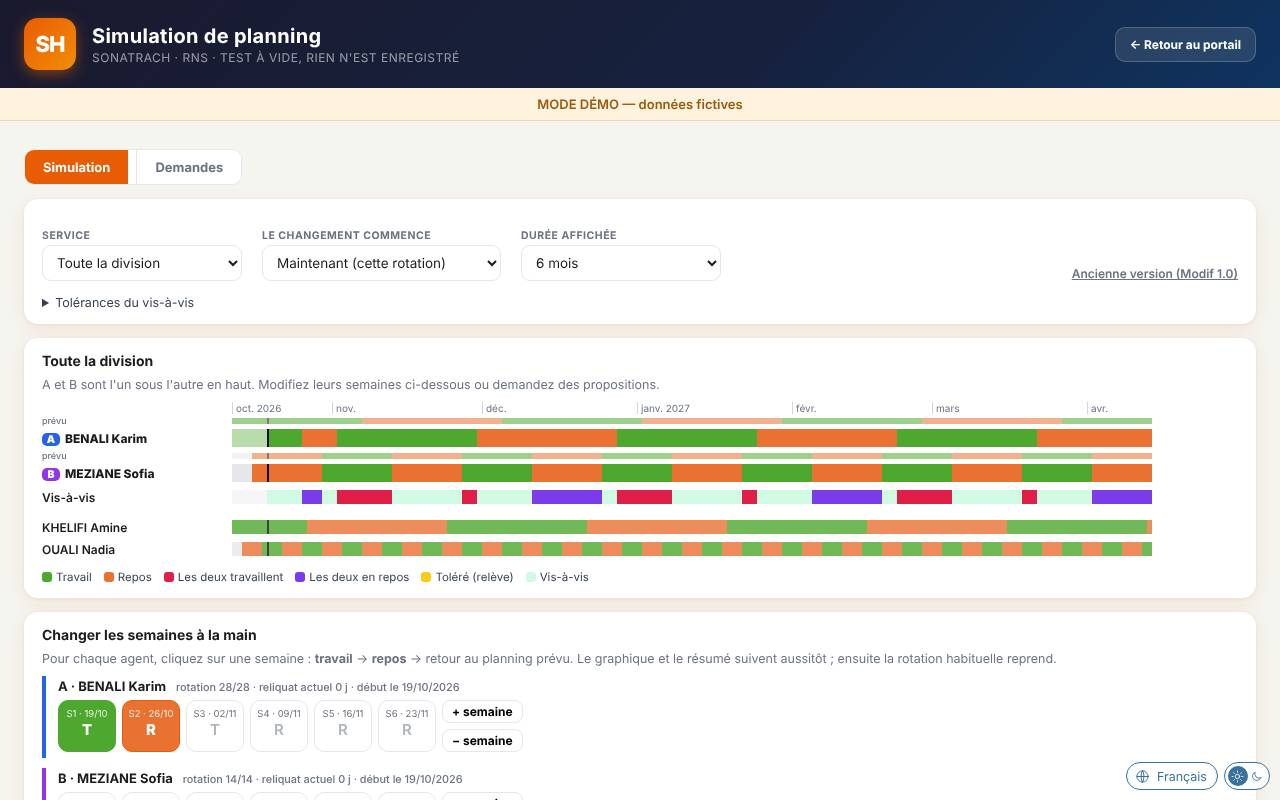
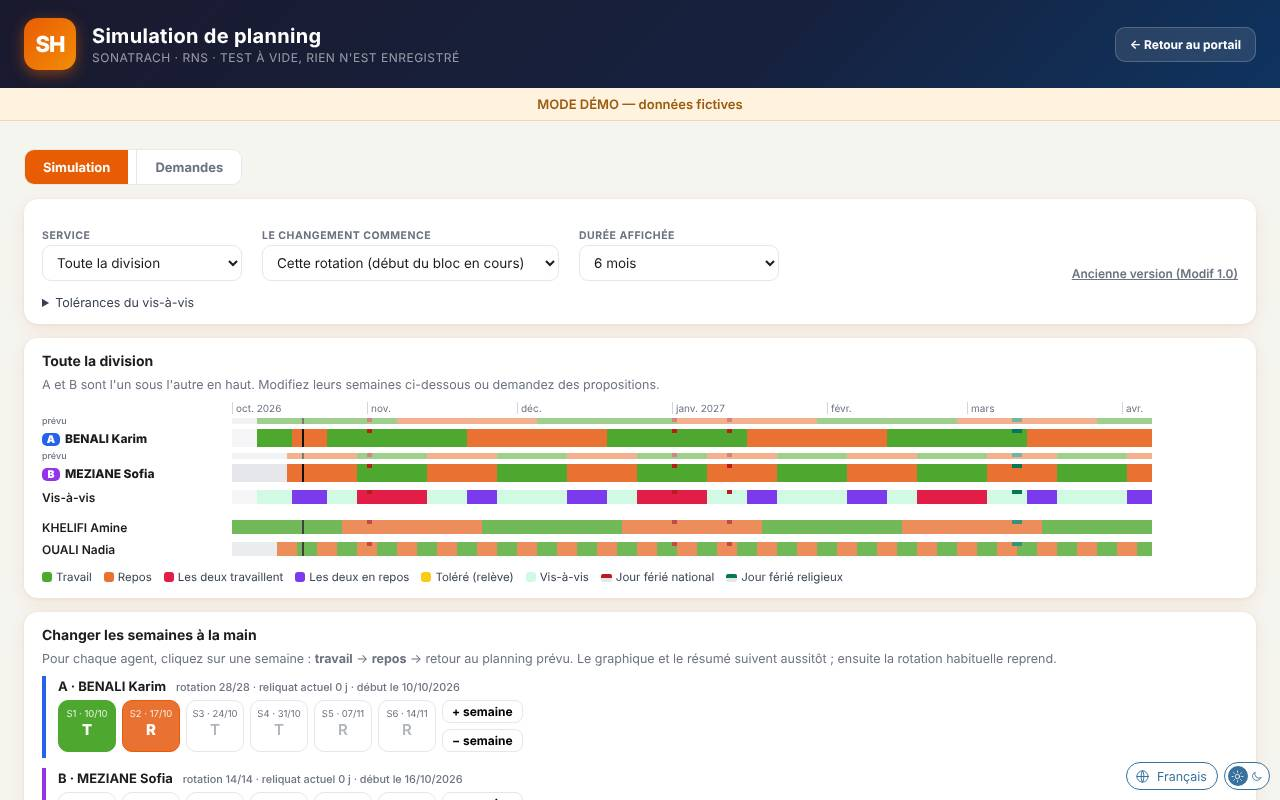
Simulation : conflits comptés sur une rotation avec phrase claire, propositions depuis la relève de chacun, survol des jours et jours fériés (simulation + planning) ; version 5.21.0
Claude-Session: https://claude.ai/code/session_01QFh25d4oXMnsPMaewNRDEt

diff --git a/simulation.html b/simulation.html
@@ -48,6 +48,8 @@
   .frise .mois { height: 16px; font-size: 10px; color: var(--text-muted); }
   .frise .mois span { display: block; overflow: visible; white-space: nowrap; border-left: 1px solid #D1D5DB; padding-left: 3px; }
   .frise .ligne.autres i { opacity: .8; }
+  .frise i { box-sizing: border-box; } .frise i.fn { border-top: 4px solid #B91C1C; } .frise i.fr { border-top: 4px solid #047857; }
+  .legende-s .fe { display: inline-block; width: 11px; height: 8px; border-radius: 2px; margin-right: 4px; background: #E5E7EB; vertical-align: -1px; } .legende-s .fe.n { border-top: 4px solid #B91C1C; } .legende-s .fe.r { border-top: 4px solid #047857; }
   .legende-s { display: flex; gap: 12px; flex-wrap: wrap; font-size: 11.5px; color: var(--ink-2); margin-top: 6px; }
   .legende-s i { display: inline-block; width: 10px; height: 10px; border-radius: 3px; margin-right: 4px; vertical-align: -1px; }
 
@@ -98,7 +100,7 @@
     <div class="bloc no-print">
       <div class="barre">
         <div><label for="service">Service</label><select id="service"></select></div>
-        <div><label for="mode">Le changement commence</label><select id="mode"><option value="maintenant">Maintenant (cette rotation)</option><option value="releve">À la prochaine rotation (relève)</option><option value="date">À partir d'une date</option></select></div>
+        <div><label for="mode">Le changement commence</label><select id="mode"><option value="cette">Cette rotation (début du bloc en cours)</option><option value="prochaine">La prochaine rotation (prochaine relève)</option><option value="date">À partir d'une date (relève suivante)</option></select></div>
         <div id="z-date" hidden><label for="dateDebut">Date de début</label><input type="date" id="dateDebut"></div>
         <div><label for="vue">Durée affichée</label><select id="vue"><option value="92">3 mois</option><option value="184" selected>6 mois</option><option value="350">1 an</option></select></div>
         <a class="lien" href="simulation-v1.html">Ancienne version (Modif 1.0)</a>
@@ -126,7 +128,7 @@
 
     <div class="bloc no-print" id="b-prop" hidden>
       <h2>💡 Propositions automatiques</h2>
-      <p class="aide2">Des décalages de 1 à 8 semaines pour les deux agents, classés du <b>plus petit reliquat</b> (positif ou négatif) au plus grand, parmi ceux qui mettent les deux en vis-à-vis. Elles respectent le choix « Le changement commence » ci-dessus.</p>
+      <p class="aide2">Des décalages de 1 à 8 semaines entières, qui commencent <b>à la relève de chacun</b> (le jour de relève de chaque agent est respecté). Classées du moins de jours de conflit, puis du <b>plus petit reliquat</b> (positif ou négatif) au plus grand. Elles respectent le choix « Le changement commence » ci-dessus.</p>
       <div class="actions" style="margin-top:0"><button class="btn-s" id="proposer" type="button">Proposer des combinaisons</button><span class="aide2" id="prop-aide" style="margin:0"></span></div>
       <div class="props" id="props"></div>
     </div>
@@ -150,6 +152,7 @@
 <script src="js/rotation.js"></script>
 <script>Rotation.exiger();</script>
 <script src="js/simulation.js"></script>
+<script src="js/feries.js"></script>
 <script>
 (function () {
   var $ = function (id) { return document.getElementById(id); };
@@ -164,6 +167,7 @@
 
   var lignes = [], agents = [], F = '', auj = '';           // planning de toute la division (grille depuis F) et liste des agents (uid)
   var S = { A: null, B: null };                              // agents choisis : { ligne, uid, data, cells: [{v}], nb }
+  var FER = {};                                              // jours fériés par date
   var cache = {};                                            // uid → données
   function sgn(n) { return (n > 0 ? '+' : n < 0 ? '−' : '') + Math.abs(n) + ' j'; }
   function sem(n) { return n % 7 === 0 ? (n / 7) + ' sem.' : n + ' j'; }
@@ -171,8 +175,8 @@
 
   // ---------- Chargement ----------
   function charger() {
-    return Promise.all([Api.call('simu_agents'), Api.call('planning', { jours: 366 })]).then(function (rs) {
-      agents = rs[0].agents; var p = rs[1]; auj = p.aujourdhui; F = p.debut;
+    return Promise.all([Api.call('simu_agents'), Api.call('planning', { debut: Simulation.addDays(Rotation.aujourdhui(), -40), jours: 370 })]).then(function (rs) {
+      agents = rs[0].agents; var p = rs[1]; auj = p.aujourdhui; F = p.debut; FER = Holidays.carte(F, Simulation.addDays(F, 400));
       lignes = p.lignes.filter(function (l) { return l.configuree && l.grille; });
       var sv = {}, s = $('service'); s.textContent = ''; s.appendChild(new Option('Toute la division', ''));
       lignes.forEach(function (l) { if (l.service) sv[l.service] = 1; });
@@ -186,7 +190,7 @@
   }
   function donnees(uid) {
     if (cache[uid]) return Promise.resolve(cache[uid]);
-    return Api.call('simu_donnees', { uid: uid, debut: F, jours: 366 }).then(function (d) { cache[uid] = d; return d; });
+    return Api.call('simu_donnees', { uid: uid, debut: F, jours: 370 }).then(function (d) { cache[uid] = d; return d; });
   }
 
   // ---------- Sélection ----------
@@ -202,12 +206,17 @@
   function initCells(a) { a.cells = []; for (var i = 0; i < MAX_SEM; i += 1) a.cells.push({ v: '' }); }
 
   // ---------- Début et modification d'un agent ----------
+  /** Début de la modification d'un agent, toujours sur SA relève (son jour de relève ne change pas : son vol en dépend). */
   function debutDe(a) {
-    var d = a.data, i0 = Math.max(Simulation.diff(d.debut, d.rotation.depuis), Simulation.diff(d.debut, auj));
-    var mode = $('mode').value;
-    if (mode === 'date' && Simulation.estDate($('dateDebut').value)) return $('dateDebut').value;
-    if (mode === 'releve') return Simulation.addDays(d.debut, Simulation.prochaineReleve(d.grille, i0));
-    return Simulation.addDays(d.debut, i0);
+    var d = a.data, g = d.grille, idx = Simulation.diff(d.debut, auj), mode = $('mode').value, i;
+    if (mode === 'cette') {                                  // début du bloc (travail ou repos) en cours
+      i = idx; while (i > 0 && g.charAt(i - 1) === g.charAt(i)) i -= 1;
+      var dd = Simulation.addDays(d.debut, i);
+      if (i > 0 && dd >= d.rotation.depuis && dd >= Simulation.addDays(auj, -30)) return dd;
+      i = Simulation.prochaineReleve(g, idx + 1);            // bloc commencé trop tôt : on prend la relève suivante
+    } else if (mode === 'date' && Simulation.estDate($('dateDebut').value)) i = Simulation.prochaineReleve(g, Math.max(0, Simulation.diff(d.debut, $('dateDebut').value)));
+    else i = Simulation.prochaineReleve(g, idx + 1);
+    return Simulation.addDays(d.debut, i);
   }
   /** Modification issue des semaines cochées : null si rien n'est changé. Les semaines « prévu » reprennent les lettres du planning officiel. */
   function modifDe(a) {
@@ -244,11 +253,16 @@
   }
 
   // ---------- Frise ----------
-  function jours(g, i0, n, pre, extra) {
+  function classeFer(i) { var h = FER[Simulation.addDays(F, i)]; return h ? (h.type === 'religieuse' ? ' fr' : ' fn') : ''; }
+  var LIBTR = { T: 'Travail', R: 'Repos' };
+  /** Une rangée de jours ; `texte(i)` donne la ligne d'infobulle propre à la rangée (état du jour, vis-à-vis…). */
+  function jours(g, i0, n, pre, extra, texte) {
     var j = el('div', 'jours');
-    for (var i = i0; i < i0 + n; i += 1) { var c = g.charAt(i), b = document.createElement('i'); b.className = (c === 'T' || c === 'R' ? c : 'x') + (pre != null && i < pre ? ' pre' : '') + (extra && extra(i) ? ' ' + extra(i) : ''); j.appendChild(b); }
+    for (var i = i0; i < i0 + n; i += 1) { var c = g.charAt(i), b = document.createElement('i'); b.className = (c === 'T' || c === 'R' ? c : 'x') + (pre != null && i < pre ? ' pre' : '') + (extra && extra(i) ? ' ' + extra(i) : '') + classeFer(i); j.appendChild(b); }
+    Survol.attacher(j, function (x) { var w = j.firstChild ? j.firstChild.getBoundingClientRect().width : 0, i = w ? i0 + Math.floor(x / w) : -1; if (i < i0 || i >= i0 + n) return ''; return infobulle(i, texte ? texte(i) : (LIBTR[g.charAt(i)] || '')); });
     return j;
   }
+  function infobulle(i, etat) { var d = Simulation.addDays(F, i), h = FER[d]; return jourFr(d) + (etat ? ' — ' + etat : '') + (h ? '\n' + (h.type === 'religieuse' ? '🕌 ' : '🇩🇿 ') + h.nom : ''); }
   function rangee(cls, etiqHtml, titre) { var l = el('div', 'ligne ' + cls), e = el('div', 'etiq'); if (etiqHtml) { e.appendChild(etiqHtml); } e.title = titre || ''; l.appendChild(e); return l; }
   function dessinerFrise() {
     var z = $('frise'); z.textContent = ''; if (!F) return;
@@ -272,7 +286,9 @@
     if (A && B) {
       var deb = Math.min.apply(null, [eA, eB].map(function (e, k) { var a = k ? B : A; return e.m ? Simulation.diff(F, e.m.debut) : Simulation.diff(F, auj); }));
       var c = Simulation.conflits(eA.mod, eB.mod, F, opts(), deb), l2 = rangee('', el('span', null, 'Vis-à-vis'), ''), j2 = el('div', 'jours');
-      for (var k = i0; k < i0 + n; k += 1) { var mk = c.marques.charAt(k), b2 = document.createElement('i'); b2.className = k < deb ? 'x pre' : (mk === 'C' || mk === 'V' || mk === 't' ? mk : 'o'); j2.appendChild(b2); }
+      for (var k = i0; k < i0 + n; k += 1) { var mk = c.marques.charAt(k), b2 = document.createElement('i'); b2.className = (k < deb ? 'x pre' : (mk === 'C' || mk === 'V' || mk === 't' ? mk : 'o')) + classeFer(k); j2.appendChild(b2); }
+      Survol.attacher(j2, function (x) { var w = j2.firstChild ? j2.firstChild.getBoundingClientRect().width : 0, q = w ? i0 + Math.floor(x / w) : -1; if (q < i0 || q >= i0 + n) return ''; var m2 = c.marques.charAt(q);
+        return infobulle(q, q < deb ? '' : m2 === 'C' ? 'les deux travaillent' : m2 === 'V' ? 'les deux en repos' : m2 === 't' ? 'toléré (relève)' : 'vis-à-vis OK'); });
       l2.appendChild(j2); z.appendChild(l2);
       leg = leg.concat([['#E11D48', 'Les deux travaillent'], ['#7C3AED', 'Les deux en repos'], ['#FACC15', 'Toléré (relève)'], ['#D1FAE5', 'Vis-à-vis']]);
     }
@@ -285,6 +301,7 @@
     });
     $('t-grp').textContent = svc ? 'Service : ' + svc : 'Toute la division';
     var lg = $('legende'); lg.textContent = ''; leg.forEach(function (x) { var s = el('span'), i2 = document.createElement('i'); i2.style.background = x[0]; s.appendChild(i2); s.appendChild(document.createTextNode(x[1])); lg.appendChild(s); });
+    [['n', 'Jour férié national'], ['r', 'Jour férié religieux']].forEach(function (x) { var s = el('span'); s.appendChild(el('span', 'fe ' + x[0])); s.appendChild(document.createTextNode(x[1])); lg.appendChild(s); });
   }
 
   // ---------- Éditeurs de semaines ----------
@@ -310,6 +327,22 @@
     });
   }
 
+  // ---------- Conflits : comptés sur UNE seule rotation à partir du début de la modification ----------
+  function cycle(a) { return Number(a.data.rotation.jours_travail) + Number(a.data.rotation.jours_repos); }
+  /** { jours, deb, len } : jours de conflit (hors tolérance) pendant une rotation (la plus longue des deux), de max(début de la modification, aujourd'hui) à +len jours. */
+  function conflitsRotation(gA, gB, mA, mB, A, B) {
+    var iAuj = Simulation.diff(F, auj), dA = mA ? Simulation.diff(F, mA.debut) : iAuj, dB = mB ? Simulation.diff(F, mB.debut) : iAuj;
+    var deb = Math.max(Math.min(dA, dB), iAuj), len = Math.max(cycle(A), cycle(B)), fin = deb + len - 1, jours = 0;
+    Simulation.conflits(gA, gB, F, opts(), deb).plages.forEach(function (p) {
+      if (p.tolere) return; var a = Math.max(Simulation.diff(F, p.du), deb), b = Math.min(Simulation.diff(F, p.au), fin); if (b >= a) jours += b - a + 1;
+    });
+    return { jours: jours, deb: deb, len: len };
+  }
+  function phraseConflit(c, nomA, nomB, sujet) {
+    return c.jours ? sujet + ' résulte de ' + c.jours + ' jour' + (c.jours > 1 ? 's' : '') + ' de conflit pour ' + nomA + ' et ' + nomB + ' (sur une rotation de ' + c.len + ' jours à partir du ' + fr(Simulation.addDays(F, c.deb)) + ').'
+      : sujet + ' ne laisse aucun jour de conflit pour ' + nomA + ' et ' + nomB + ' (sur une rotation de ' + c.len + ' jours à partir du ' + fr(Simulation.addDays(F, c.deb)) + ').';
+  }
+
   // ---------- Résumé, bilan ----------
   function majResultat() {
     dessinerFrise();
@@ -328,13 +361,9 @@
       bi.appendChild(d); var ex = el('div', null, '+ : jours travaillés en plus (à récupérer) · − : jours de repos en plus'); ex.style.cssText = 'font-size:11.5px;color:var(--text-muted)'; bi.appendChild(ex);
     }
     if (A && B && !eA.err && !eB.err) {
-      var deb = Math.min(eA.m ? Simulation.diff(F, eA.m.debut) : Simulation.diff(F, auj), eB.m ? Simulation.diff(F, eB.m.debut) : Simulation.diff(F, auj));
-      var c = Simulation.conflits(eA.mod, eB.mod, F, opts(), deb), plages = c.plages.filter(function (p) { return !p.tolere && p.au >= Simulation.addDays(F, deb); }), v = el('div');
-      if (!plages.length) { v.textContent = '✔ Vis-à-vis respecté entre ' + A.ligne.nom + ' et ' + B.ligne.nom + ' sur toute la période affichée.'; v.style.cssText = 'font-weight:700;color:#166534;margin-top:6px'; bi.appendChild(v); }
-      else {
-        v.textContent = '✖ ' + c.jours + ' jour(s) en conflit :'; v.style.cssText = 'font-weight:700;color:#B42318;margin-top:6px'; bi.appendChild(v);
-        var ul = el('ul'); plages.slice(0, 6).forEach(function (p) { ul.appendChild(el('li', null, (p.type === 'trou' ? 'les deux en repos' : 'les deux travaillent') + ' du ' + fr(p.du) + ' au ' + fr(p.au) + ' (' + p.jours + ' j)')); }); bi.appendChild(ul);
-      }
+      var c = conflitsRotation(eA.mod, eB.mod, eA.m, eB.m, A, B), v = el('div');
+      v.textContent = (c.jours ? '✖ ' : '✔ ') + phraseConflit(c, A.ligne.nom, B.ligne.nom, 'Cette simulation');
+      v.style.cssText = 'font-weight:700;margin-top:6px;color:' + (c.jours ? '#B42318' : '#166534'); bi.appendChild(v);
     }
   }
   function majTout() {
@@ -351,26 +380,24 @@
     for (var w = 0; w < n && w < MAX_SEM; w += 1) a.cells[w].v = l.charAt(w * 7);
   }
   function proposer() {
-    var A = S.A, B = S.B; if (!A || !B) return; var o = opts(), mode = $('mode').value;
-    var debut = mode === 'date' && Simulation.estDate($('dateDebut').value) ? $('dateDebut').value : auj;
+    var A = S.A, B = S.B; if (!A || !B) return; var o = opts();
+    var dA = debutDe(A), dB = debutDe(B), debut = dA < dB ? dA : dB;
     $('prop-aide').textContent = 'Calcul…'; $('props').textContent = '';
     setTimeout(function () {
-      var res = Simulation.proposerPaire({ offA: A.data.grille, offB: B.data.grille, debutF: F, rotA: A.data.rotation, rotB: B.data.rotation, debut: debut, tolChev: o.tolChev, tolTrou: o.tolTrou, pas: 7, alignerReleve: mode === 'releve',
-        maxTransition: 56, maxTotal: 84, preference: 'indifferent', soldeA: A.data.solde || 0, soldeB: B.data.solde || 0, max: 60 });
+      var res = Simulation.proposerPaire({ offA: A.data.grille, offB: B.data.grille, debutF: F, rotA: A.data.rotation, rotB: B.data.rotation, debut: debut, debutA: dA, debutB: dB, tolChev: o.tolChev, tolTrou: o.tolTrou, pas: 7, alignerReleve: false,
+        maxTransition: 56, maxTotal: 84, preference: 'indifferent', soldeA: A.data.solde || 0, soldeB: B.data.solde || 0, max: 80 });
       var sA = A.data.solde || 0, sB = B.data.solde || 0;
-      res.forEach(function (r) { r.pire = Math.max(Math.abs(sA + r.reliquatA), Math.abs(sB + r.reliquatB)); });
+      res.forEach(function (r) { r.pire = Math.max(Math.abs(sA + r.reliquatA), Math.abs(sB + r.reliquatB)); r.cr = conflitsRotation(r.grilleA, r.grilleB, r.A, r.B, A, B); });
       var bons = res.filter(function (r) { return r.stable; }); if (!bons.length) bons = res.slice();
-      bons.sort(function (p, q) { return p.pire - q.pire || p.jusquEtabli - q.jusquEtabli || p.transition - q.transition; });
+      bons.sort(function (p, q) { return p.cr.jours - q.cr.jours || p.pire - q.pire || p.transition - q.transition; });
       bons = bons.slice(0, 8); var z = $('props'); z.textContent = '';
-      $('prop-aide').textContent = !bons.length ? 'Aucune combinaison trouvée : essayez « À partir d\'une date » ou des tolérances plus larges.' : (bons[0].stable ? bons.length + ' proposition(s), du plus petit reliquat au plus grand.' : 'Pas de vis-à-vis parfait : voici les plus proches.');
+      $('prop-aide').textContent = !bons.length ? 'Aucune combinaison trouvée : essayez « À partir d\'une date » ou des tolérances plus larges.' : bons.length + ' proposition(s) : le moins de jours de conflit d\'abord, puis le plus petit reliquat.';
       bons.forEach(function (r, i) {
-        var d = el('div', 'prop' + (i === 0 && r.stable ? ' top' : '')), t = el('div');
-        [[A, r.A, r.reliquatA], [B, r.B, r.reliquatB]].forEach(function (x) {
-          var e = x[1] ? { m: x[1] } : { m: null }, ph = x[1] ? phrase(x[0], e) : x[0].ligne.nom + ' : inchangé.'; t.appendChild(el('div', 'l', ph));
-        });
+        var d = el('div', 'prop' + (i === 0 && r.cr.jours === 0 ? ' top' : '')), t = el('div');
+        [[A, r.A], [B, r.B]].forEach(function (x) { t.appendChild(el('div', 'l', x[1] ? phrase(x[0], { m: x[1] }) : x[0].ligne.nom + ' : inchangé.')); });
         var l2 = el('div', 'l'); [[A, r.reliquatA, sA], [B, r.reliquatB, sB]].forEach(function (x, k) { if (k) l2.appendChild(document.createTextNode(' · ')); var sp = el('span', null, x[0].ligne.nom + ' ' + sgn(x[1]) + ' (solde → ' + sgn(x[2] + x[1]) + ')'); sp.style.cssText = 'font-weight:800;color:' + (x[1] > 0 ? '#15803D' : x[1] < 0 ? '#DC2626' : '#111'); l2.appendChild(sp); });
         t.appendChild(l2);
-        t.appendChild(el('small', null, r.stable ? '✔ Vis-à-vis établi ' + (r.jusquEtabli <= 0 ? 'tout de suite' : 'dès le ' + fr(r.etabliLe) + ' (dans ' + r.jusquEtabli + ' j)') : '✖ ' + r.conflits + ' j en conflit'));
+        var cf = el('div', 'l', (r.cr.jours ? '✖ ' : '✔ ') + phraseConflit(r.cr, A.ligne.nom, B.ligne.nom, 'Cette proposition')); cf.style.cssText = 'font-weight:700;color:' + (r.cr.jours ? '#B42318' : '#166534'); t.appendChild(cf);
         d.appendChild(t); var b = el('button', 'btn-s', 'Utiliser'); b.type = 'button';
         b.addEventListener('click', function () { cellsDe(A, r.A); cellsDe(B, r.B); dessinerEditeurs(); majResultat(); window.scrollTo({ top: $('b-edit').offsetTop - 70, behavior: 'smooth' }); });
         d.appendChild(b); z.appendChild(d);

diff --git a/js/feries.js b/js/feries.js
@@ -1,0 +1,88 @@
+/* Jours fériés algériens (nationaux fixes + religieux estimés, calendrier hégirien civil) : brique « Holidays » de Sijil, reprise telle quelle.
+ * Les dates religieuses dépendent de l'observation de la lune : écart possible d'un jour. Ajouts : Holidays.parsePerso. + petit utilitaire d'infobulle « Survol ». */
+/**
+ * Jours fériés algériens : fêtes nationales (dates fixes) et fêtes religieuses (calendrier hégirien).
+ * Les dates religieuses sont ESTIMÉES (calendrier hégirien civil) : en Algérie elles dépendent de l'observation de la lune
+ * (écart possible d'un jour). Le Setup permet d'ajouter ou de corriger des jours (paramètre feries_perso).
+ */
+var Holidays = (function () {
+  var FIXES = [[1, 1, "Nouvel an"], [1, 12, 'Yennayer (Nouvel an amazigh)'], [5, 1, 'Fête du travail'], [7, 5, "Fête de l'indépendance"], [11, 1, 'Anniversaire de la Révolution']];
+  // [mois hégirien, jour, nom, nombre de jours]
+  var RELIGIEUSES = [[1, 1, 'Nouvel an hégirien', 1], [1, 10, 'Achoura', 1], [3, 12, 'Mawlid Ennabaoui', 1], [10, 1, 'Aïd el-Fitr', 2], [12, 10, 'Aïd el-Adha', 2]];
+
+  function pad(n) { return (n < 10 ? '0' : '') + n; }
+  function iso(y, m, d) { return y + '-' + pad(m) + '-' + pad(d); }
+  // Calendrier hégirien civil (tabulaire) -> jour julien -> date grégorienne.
+  function hijriToJd(y, m, d) { return d + Math.ceil(29.5 * (m - 1)) + (y - 1) * 354 + Math.floor((3 + 11 * y) / 30) + 1948439.5 - 1; }
+  function jdToIso(jd) {
+    var z = Math.floor(jd + 0.5); var a = z;
+    if (z >= 2299161) { var al = Math.floor((z - 1867216.25) / 36524.25); a = z + 1 + al - Math.floor(al / 4); }
+    var b = a + 1524; var c = Math.floor((b - 122.1) / 365.25); var dd = Math.floor(365.25 * c); var e = Math.floor((b - dd) / 30.6001);
+    var day = b - dd - Math.floor(30.6001 * e); var month = e < 14 ? e - 1 : e - 13; var year = month > 2 ? c - 4716 : c - 4715;
+    return iso(year, month, day);
+  }
+  function hijriYearsFor(y) { var h = Math.floor((y - 622) * 33 / 32); return [h - 1, h, h + 1, h + 2]; }
+
+  // Jours fériés estimés d'une année grégorienne : [{ date, nom, type }] ('nationale' | 'religieuse').
+  function ofYear(y) {
+    var out = [];
+    FIXES.forEach(function (f) { out.push({ date: iso(y, f[0], f[1]), nom: f[2], type: 'nationale' }); });
+    hijriYearsFor(y).forEach(function (hy) {
+      RELIGIEUSES.forEach(function (r) {
+        var start = hijriToJd(hy, r[0], r[1]);
+        for (var i = 0; i < r[3]; i += 1) {
+          var date = jdToIso(start + i);
+          if (date.slice(0, 4) === String(y)) out.push({ date: date, nom: r[3] > 1 ? r[2] + ' (jour ' + (i + 1) + ')' : r[2], type: 'religieuse' });
+        }
+      });
+    });
+    return out;
+  }
+  // Ajouts et retraits du Setup : « AAAA-MM-JJ Nom » ajoute, « - AAAA-MM-JJ » retire.
+  function parsePerso(text) {
+    var add = []; var del = {};
+    String(text || '').split(/\r?\n/).forEach(function (line) {
+      line = line.trim(); if (!line) return;
+      var m = /^-\s*(\d{4}-\d{2}-\d{2})/.exec(line);
+      if (m) { del[m[1]] = true; return; }
+      m = /^(\d{4}-\d{2}-\d{2})\s*(.*)$/.exec(line);
+      if (m) add.push({ date: m[1], nom: m[2].trim() || 'Jour férié', type: 'perso' });
+    });
+    return { add: add, del: del };
+  }
+  // Jours fériés entre deux dates (incluses), triés ; les corrections du Setup s'appliquent.
+  function between(from, to, perso) {
+    var p = parsePerso(perso); var out = []; var seen = {};
+    for (var y = Number(from.slice(0, 4)); y <= Number(to.slice(0, 4)); y += 1) {
+      ofYear(y).concat(p.add.filter(function (x) { return x.date.slice(0, 4) === String(y); })).forEach(function (h) {
+        if (h.date < from || h.date > to || p.del[h.date]) return;
+        var k = h.date + '|' + h.nom; if (seen[k]) return; seen[k] = true; out.push(h);
+      });
+    }
+    return out.sort(function (a, b) { return a.date < b.date ? -1 : a.date > b.date ? 1 : 0; });
+  }
+  return { ofYear: ofYear, between: between, parsePerso: parsePerso };
+})();
+
+/** Jours fériés indexés par date : { 'AAAA-MM-JJ': { nom, type } } entre deux dates incluses. */
+Holidays.carte = function (du, au) { var m = {}; Holidays.between(du, au, '').forEach(function (h) { m[h.date] = h; }); return m; };
+
+/** Infobulle qui suit la souris : Survol.attacher(element, function (x) { return 'texte' | ''; }) — x = position horizontale dans l'élément. */
+var Survol = (function () {
+  var tip = null;
+  function montrer(texte, e) {
+    if (!tip) { tip = document.createElement('div'); tip.setAttribute('data-i18n-non', ''); tip.style.cssText = 'position:fixed;z-index:99999;pointer-events:none;background:#1A1A2E;color:#fff;font:600 12px Inter,Arial,sans-serif;padding:5px 9px;border-radius:7px;box-shadow:0 4px 14px rgba(0,0,0,.3);white-space:pre-line;max-width:260px'; document.body.appendChild(tip); }
+    tip.textContent = texte; tip.style.display = 'block';
+    var x = e.clientX + 14, y = e.clientY + 16; if (x + tip.offsetWidth > window.innerWidth - 6) x = e.clientX - tip.offsetWidth - 10; if (y + tip.offsetHeight > window.innerHeight - 6) y = e.clientY - tip.offsetHeight - 10;
+    tip.style.left = Math.max(4, x) + 'px'; tip.style.top = Math.max(4, y) + 'px';
+  }
+  function cacher() { if (tip) tip.style.display = 'none'; }
+  function attacher(el, fn) {
+    el.addEventListener('mousemove', function (e) { var r = el.getBoundingClientRect(), t = fn(e.clientX - r.left, e); if (t) montrer(t, e); else cacher(); });
+    el.addEventListener('mouseleave', cacher);
+  }
+  return { attacher: attacher, cacher: cacher };
+})();
+var JOURS_FR = ['dim.', 'lun.', 'mar.', 'mer.', 'jeu.', 'ven.', 'sam.'];
+/** « jeu. 22/11/2026 » */
+function jourFr(iso) { var d = new Date(iso + 'T00:00:00Z'); return JOURS_FR[d.getUTCDay()] + ' ' + iso.slice(8, 10) + '/' + iso.slice(5, 7) + '/' + iso.slice(0, 4); }

diff --git a/planning.html b/planning.html
@@ -30,7 +30,7 @@
     </div>
     <div class="nav-periode"><button class="btn-s" id="prec" type="button" aria-label="Période précédente">‹</button><b id="periode"></b><button class="btn-s" id="suiv" type="button" aria-label="Période suivante">›</button><button class="btn-s" id="auj" type="button">Aujourd'hui</button></div>
     <button class="btn-s no-print" id="imprimer" type="button" title="Imprimer ou enregistrer en PDF">🖨 Imprimer / PDF</button>
-    <div class="legende"><span><i style="background:var(--c-T)"></i>Travail</span><span><i style="background:var(--c-R)"></i>Repos</span><span><i style="background:var(--c-ABS)"></i>Absence</span><span><i style="background:var(--c-T-prevu);border:1px solid #BFE3B1"></i><i style="background:var(--c-R-prevu);border:1px solid #F4C3A5"></i>Prévu (à venir)</span></div>
+    <div class="legende"><span><i style="background:var(--c-T)"></i>Travail</span><span><i style="background:var(--c-R)"></i>Repos</span><span><i style="background:var(--c-ABS)"></i>Absence</span><span><i style="background:var(--c-T-prevu);border:1px solid #BFE3B1"></i><i style="background:var(--c-R-prevu);border:1px solid #F4C3A5"></i>Prévu (à venir)</span><span><i style="background:#B91C1C;height:4px;vertical-align:3px"></i>Férié national</span><span><i style="background:#047857;height:4px;vertical-align:3px"></i>Férié religieux</span></div>
   </div>
   <div class="barre" id="barre-filtres" hidden>
     <input type="text" id="q" placeholder="Rechercher un nom…" aria-label="Rechercher">
@@ -50,6 +50,7 @@
 <script src="js/config.js"></script>
 <script src="js/api.js"></script>
 <script src="js/rotation.js"></script>
+<script src="js/feries.js"></script>
 <script>Rotation.exiger();</script>
 <script src="js/employeurs.js"></script>
 <script>
@@ -89,6 +90,10 @@
   function segments(g) { var out = [], i = 0; while (i < g.length) { var c = g.charAt(i), j = i; while (j < g.length && g.charAt(j) === c) j += 1; out.push({ c: c, a: i, n: j - i }); i = j; } return out; }
   // Palette de Sijil : jusqu'à aujourd'hui = couleur vive ; après aujourd'hui = teinte claire « prévu » (sauf absence).
   var COUL = { T: '#4EA72E', R: '#E97132', A: '#E53935' }, PREVU = { T: '#D6F0CC', R: '#FBDCC8', A: '#E53935' }, PREVU_CLAIR = { T: '#D6F0CC', R: '#FBDCC8' }, LIB = { T: 'Travail', R: 'Repos', A: 'Absence' };
+  // Jours fériés (nationaux en rouge, religieux en vert) : repère en haut de chaque jour, nom dans l'infobulle de la souris
+  var _fer = {}; function ferMap(debut, n) { var k = debut + '|' + n; return _fer[k] || (_fer[k] = Holidays.carte(debut, plus(debut, n))); }
+  function ferCoul(h) { return h.type === 'religieuse' ? '#047857' : '#B91C1C'; }
+  function infobulleJour(debut, i, etat) { var d = plus(debut, i), h = ferMap(debut, 400)[d]; return jourFr(d) + (etat ? ' — ' + etat : '') + (h ? '\n' + (h.type === 'religieuse' ? '🕌 ' : '🇩🇿 ') + h.nom : ''); }
   function frise(grille, debut, n, px, aujIdx) {
     // teintes « prévu » et fond selon le thème (clair / sombre)
     var cs = getComputedStyle(document.documentElement); PREVU.T = cs.getPropertyValue('--c-T-prevu').trim() || PREVU_CLAIR.T; PREVU.R = cs.getPropertyValue('--c-R-prevu').trim() || PREVU_CLAIR.R;
@@ -101,8 +106,7 @@
       [[g.a, coupe, COUL], [coupe, g.a + g.n, PREVU]].forEach(function (part) {
         var de = part[0], a2 = part[1], n2 = a2 - de; if (n2 <= 0) return;
         var r = svgEl('rect', { x: de * px, y: 4, width: n2 * px - (px > 6 ? 1 : 0), height: h - 8, rx: px > 6 ? 3 : 1, fill: part[2][g.c] });
-        var t = svgEl('title'); t.textContent = LIB[g.c] + (part[2] === PREVU && g.c !== 'A' ? ' (prévu)' : '') + ' : du ' + court(plus(debut, de)) + ' au ' + court(plus(debut, a2 - 1)) + ' (' + n2 + ' jour' + (n2 > 1 ? 's' : '') + ')';
-        r.appendChild(t); s.appendChild(r);
+        s.appendChild(r);
       });
       if (px >= 20) {
         for (var k = 0; k < g.n; k += 1) {
@@ -112,7 +116,9 @@
         }
       }
     });
+    var fm = ferMap(debut, n); for (var fi = 0; fi < n; fi += 1) { var fh = fm[plus(debut, fi)]; if (fh) s.appendChild(svgEl('rect', { x: fi * px, y: 0, width: Math.max(2, px - (px > 6 ? 1 : 0)), height: 4, fill: ferCoul(fh) })); }
     if (aujIdx >= 0 && aujIdx < n) s.appendChild(svgEl('rect', { x: aujIdx * px - 1, y: 0, width: Math.max(2, px > 6 ? 2 : 1.5), height: h, fill: '#1A1A2E' }));
+    Survol.attacher(s, function (x) { var i = Math.floor(x / px); if (i < 0 || i >= n) return ''; var c = grille.charAt(i); return infobulleJour(debut, i, (LIB[c] || '') + (c !== 'A' && i > aujIdx && LIB[c] ? ' (prévu)' : '')); });
     return s;
   }
   function entete(debut, n, px, aujIdx) {
@@ -128,6 +134,8 @@
       }
       if (i === aujIdx) s.appendChild(svgEl('rect', { x: i * px, y: 30, width: px, height: 3, fill: '#16598D' }));
     }
+    var fm = ferMap(debut, n); for (var fi = 0; fi < n; fi += 1) { var fh = fm[plus(debut, fi)]; if (fh) s.insertBefore(svgEl('rect', { x: fi * px, y: 16, width: Math.max(2, px - (px > 6 ? 1 : 0)), height: 18, fill: ferCoul(fh), opacity: .22 }), s.firstChild); }
+    Survol.attacher(s, function (x) { var i = Math.floor(x / px); return i < 0 || i >= n ? '' : infobulleJour(debut, i, ''); });
     return s;
   }
 

diff --git a/js/aide-data.js b/js/aide-data.js
@@ -15,8 +15,8 @@ window.AIDE = {
     astuces: ['Les teintes claires sont des jours prévus, les foncées des jours constatés.', 'Pour modifier une rotation sans rien enregistrer, utilisez « Simulation de planning ».'] },
   'simulation.html': { titre: 'Simulation de planning', img: 'simulation',
     resume: 'Teste à vide un changement de rotation pour deux agents en vis-à-vis, puis émet la demande à signer.',
-    etapes: ['Choisissez un service (ou toute la division) pour voir toutes les équipes sur le graphique, et quand le changement commence : maintenant, à la prochaine rotation ou à une date.', 'Cliquez sur un agent (A) puis sur son vis-à-vis (B) : les deux se placent l\'un sous l\'autre en haut, avec une ligne de vis-à-vis.', 'Sous le graphique, cliquez sur les semaines de chacun : travail → repos → retour au prévu. Le graphique et le résumé (« écourte son repos à 3 semaines… ») suivent aussitôt ; « + semaine » en ajoute (jusqu\'à 12).', '« Proposer des combinaisons » calcule des décalages de 1 à 8 semaines, du plus petit reliquat au plus grand ; « Utiliser » les reporte dans les semaines pour les ajuster.', '« Valider et émettre la demande » enregistre une demande par agent modifié et prépare le document à signer.'],
-    astuces: ['Rien n\'est enregistré tant que vous ne validez pas.', 'La version précédente reste disponible via « Ancienne version (Modif 1.0) ».', 'Reliquat : + = jours travaillés en plus, − = jours de repos en plus.'] },
+    etapes: ['Choisissez un service (ou toute la division) pour voir toutes les équipes sur le graphique, et quand le changement commence : cette rotation (début du bloc en cours), la prochaine rotation ou une date. Le jour de relève de chaque agent est toujours respecté.', 'Cliquez sur un agent (A) puis sur son vis-à-vis (B) : les deux se placent l\'un sous l\'autre en haut, avec une ligne de vis-à-vis.', 'Sous le graphique, cliquez sur les semaines de chacun : travail → repos → retour au prévu. Le graphique et le résumé (« écourte son repos à 3 semaines… ») suivent aussitôt ; « + semaine » en ajoute (jusqu\'à 12).', '« Proposer des combinaisons » calcule des décalages de 1 à 8 semaines entières depuis la relève de chacun, classés du moins de jours de conflit (sur une rotation) puis du plus petit reliquat ; « Utiliser » les reporte dans les semaines pour les ajuster.', '« Valider et émettre la demande » enregistre une demande par agent modifié et prépare le document à signer.'],
+    astuces: ['Rien n\'est enregistré tant que vous ne validez pas.', 'La version précédente reste disponible via « Ancienne version (Modif 1.0) ».', 'Reliquat : + = jours travaillés en plus, − = jours de repos en plus.', 'Survolez un jour du graphique : la date, l\'état et le jour férié éventuel s\'affichent à la souris.'] },
   'simulation-v1.html': { titre: 'Simulation de planning (Modif 1.0)', resume: 'Ancienne version de la simulation, conservée en secours.',
     etapes: ['Choisissez l\'agent, éventuellement son vis-à-vis, puis ses périodes de travail et de repos en jours.', 'Consultez le résultat, puis validez pour émettre la demande.'], astuces: ['Le lien « Nouvelle simulation » en haut ramène à la version simplifiée.'] },
   'demande.html': { titre: 'Demande de modification de planning',

diff --git a/apps-script/gateway/test/simulation.test.js b/apps-script/gateway/test/simulation.test.js
@@ -155,3 +155,14 @@ test('à vis-à-vis égal, le plus fort reliquat atteint est classé en dernier 
   const i1414 = res.findIndex(p => p.pire === 14 && p.concession === 28), i280 = res.findIndex(p => p.pire === 28 && p.concession === 28);
   assert.ok(i1414 >= 0 && i280 >= 0 && i1414 < i280, '14/14 avant 28/0');
 });
+
+test('propositions avec un début propre à chaque agent (debutA / debutB) : chacun commence exactement à sa relève', () => {
+  const rA = { statut: 'T', depuis: '2026-09-01', jours_travail: 28, jours_repos: 28 };
+  const rB = { statut: 'T', depuis: '2026-09-11', jours_travail: 28, jours_repos: 28 };
+  const dF = '2026-09-01', n = 300, debut = '2026-10-05';
+  const offA = Planning.grille(rA, [], dF, n), offB = Planning.grille(rB, [], dF, n);
+  const dA = Simulation.addDays(dF, Simulation.prochaineReleve(offA, Simulation.diff(dF, debut))), dB = Simulation.addDays(dF, Simulation.prochaineReleve(offB, Simulation.diff(dF, debut)));
+  const res = Simulation.proposerPaire({ offA, offB, debutF: dF, rotA: rA, rotB: rB, debut, debutA: dA, debutB: dB, tolChev: 2, tolTrou: 0, pas: 7, alignerReleve: false, maxTransition: 56, maxTotal: 84, max: 20 });
+  assert.ok(res.length > 0);
+  res.forEach(p => { if (p.A) assert.strictEqual(p.A.debut, dA); if (p.B) assert.strictEqual(p.B.debut, dB); [p.A, p.B].forEach(m => m && assert.ok(m.periodes.every(x => x.jours % 7 === 0))); });
+});

diff --git a/js/simulation.js b/js/simulation.js
@@ -232,7 +232,9 @@ var Simulation = (function () {
    */
   function proposerPaire(opts) {
     var tolC = opts.tolChev != null ? opts.tolChev : 2, tolV = opts.tolTrou != null ? opts.tolTrou : 0, pref = opts.preference || 'indifferent';
-    var cA = candidats(opts.offA, opts.debutF, opts.rotA, opts.debut, opts), cB = candidats(opts.offB, opts.debutF, opts.rotB, opts.debut, opts);
+    // debutA / debutB (facultatifs) : début propre à chaque agent, pris tel quel (sa relève) ; sinon `debut` commun, aligné sur la relève de chacun si alignerReleve
+    var oExact = {}; Object.keys(opts).forEach(function (k) { oExact[k] = opts[k]; }); oExact.alignerReleve = false;
+    var cA = candidats(opts.offA, opts.debutF, opts.rotA, opts.debutA || opts.debut, opts.debutA ? oExact : opts), cB = candidats(opts.offB, opts.debutF, opts.rotB, opts.debutB || opts.debut, opts.debutB ? oExact : opts);
     // Le vis-à-vis est exigé à partir de la date choisie : un candidat qui attend la prochaine relève laisse des conflits d'ici là, ce que la priorité « établi au plus tôt » compte.
     var depuisIdx = Math.max(0, diff(opts.debutF, opts.debut)), depuisDate = addDays(opts.debutF, depuisIdx);
     var cyMax = Math.max(Number(opts.rotA.jours_travail) + Number(opts.rotA.jours_repos), Number(opts.rotB.jours_travail) + Number(opts.rotB.jours_repos));

diff --git a/js/version.js b/js/version.js
@@ -1,2 +1,2 @@
 // Version publiée du portail (affichée dans le pied de page ; version.json est généré à la publication à partir de ce nombre).
-window.PORTAIL_VERSION = '5.20.0';
+window.PORTAIL_VERSION = '5.21.0';
